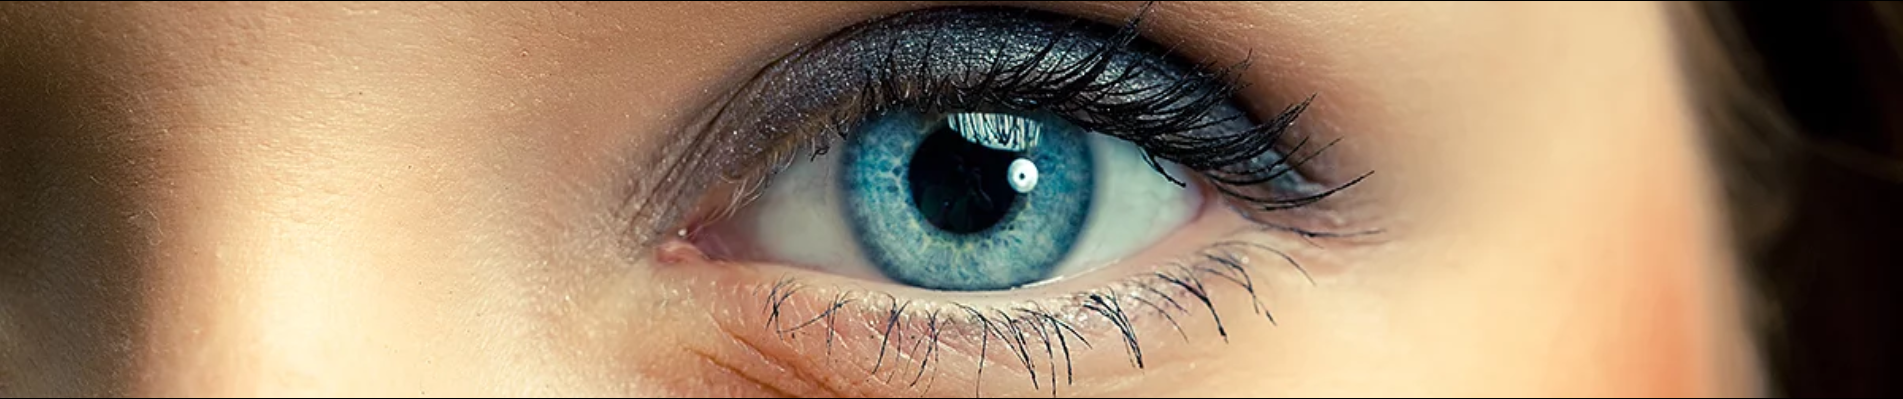
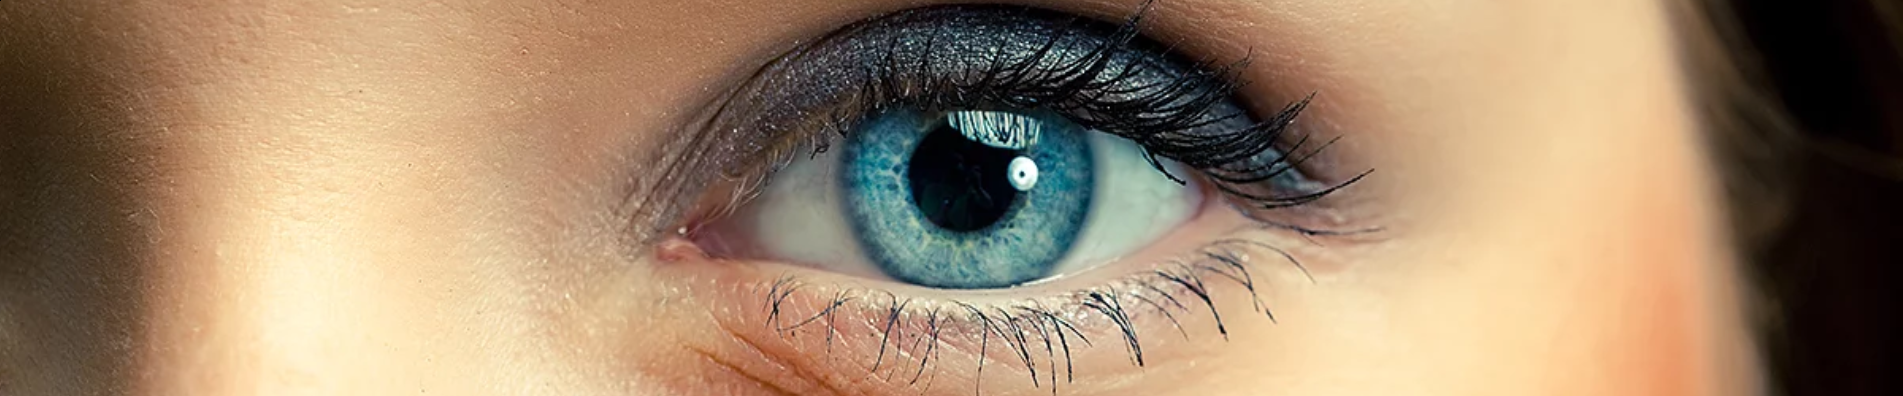
ajustes no design

diff --git a/estilo.css b/estilo.css
@@ -1,4 +1,5 @@
 body{
+    width: 100%;
     background-color: white;
     background-repeat: no-repeat;
     font-family: "Calibri Light";
@@ -6,50 +7,100 @@ body{
     margin: 0; padding: 0;
 }
 #menu{
-    color: white;
-    width: 100%;
-    height: 70px;
-    background-color: white;
+    color: #89cbc0;
+    width: 90%;
+    height: 50px;
+    background-color: #89cbc0;
     display: inline-block;
     padding-bottom: 30px;
     margin-bottom: 0px;
     padding-top: 30px;
-    padding-left: 800px;
+    padding-left: 200px;
     font-family: "Calibri";
     
+    
 }
-#menu a{
+/*#menu a{
+    float: right;
+}*/
+#menu form{
+    float: left;
+    height: 10px;
+    border: 1px solid black;
+} 
+#menu img{
+    float: left;
+    height: 10px;
+    border: 1px solid black;
+}
+
+#menu02{
+    color: white;
+    width: 100%;
+    height: 60px;
+    background-color: white;
+    display: inline-block;
+    padding-bottom: 30px;
+    margin-bottom: 0px;
+    padding-top: 15px;
+    padding-left: 190px;
+    font-family: "Calibri";
+    float: left;
+    
+}
+#menu02 a{
     background-color: white;
     color: #00688B;
     text-decoration: none;
     margin: 0px 0px;
-    padding: 30px 30px 25px 25px;
+    padding: 60px 60px 60px 30px;
     font-size: 16px;
     font-family: "Calibri";
     float: left;
 }
-#menu a:hover{
-    text-decoration: underline;
+#menu02 a:hover{
+    background-color: lightgray;
+    color: white;
     cursor: pointer;
+}
+#logo{
+    width: 342px; height: 130px;
+    float: left;
+    padding-right: 200px;
+}
+#olho{
+    width: 100%; height: 420px;
+}
+#facebook{
+    padding-left: 30px;
+    padding-top: 20px;
+    
+}
+#divface{
+    width: 300px;
+    float: right;
 }
 #usuario{
     padding-top: 28px;
     padding-right: 10px;
-    padding-left: 70px;
-    width: 20px; height: 20px;
+    padding-left: 10px;
+    width: 20px; height: 60px;
     float: left;
 }
-#logo{
-    width: 270px; height: 100px;
-    float: left;
+#facebook{
+    width: 30px; height: 30px;
+    padding-left: 5px;
+    padding-right: 5px;
+    padding-top: 0px;
+}
 
-}
 #formulario input[type="submit"]{
      padding: 10px 15px 10px 15px;
      border-radius: 8px;
      border: none;
-     background-color: #00688B;
-     color: white;
+     background-color: white;
+     color: #00688B;
+     cursor: pointer;
 }
 #formulario input[type="text"]{
     padding: 8px 8px 8px 8px;
@@ -75,7 +126,6 @@ body{
 #container2{
     margin: 15px;
 }
-
 #login{
     background-repeat: no-repeat;
     padding: 12px 45px;
@@ -85,7 +135,6 @@ body{
     font-size: 11px;
     width: 100px;
     transition: width 1s;
-    -webkit-transition: width 1s;                    
-    
+    -webkit-transition: width 1s;                      
 }
 

diff --git a/menu.php b/menu.php
@@ -5,52 +5,22 @@ if (session_status() != PHP_SESSION_ACTIVE) {
 ?>
 <header>
     <div id="menu">
-        <img id="logo" src="imagens/logo.png" alt="VL"   
-    <a href="index.php">Início</a>
-    <a href="horarios.php">Sobre</a>
-    
-    <?php
-    if (!isset($_SESSION['logado']) ||
-            !$_SESSION['logado'] ) {
-        ?>
-     <a href="frmCliente.php">Cadastre-se</a>
     |
-    <img id="usuario" src="imagens/usuario3.png" alt="botao">
-     
-        
-    <form id="formulario" action="entrar.php" method="POST" >
-            <input type="text" name="txtLogin" required
-                   placeholder="E-mail ou CPF: " />
+        <img id="usuario" src="imagens/usuario3.png" alt="botao">
 
-            <input type="password" name="txtSenha"
-                   placeholder="Senha: " required />
+        <form id="formulario" action="entrar.php" method="POST" >
+                <input type="text" name="txtLogin" required
+                       placeholder="E-mail ou CPF: " />
 
-            <input type="submit" value="Entrar" />
-        </form> 
-    
-    <?php
-            }else{
-                ?>
-    
-        <a href="consultas.php">Consultas</button</a>  
-    <?php
-    if(isset($_SESSION['tipo'])&& $_SESSION['tipo'] == "a"){
-        echo ' <a href="clientes.php">Usuários</a>';
-        echo ' <a href="cidades.php">Cidades</a>';  
-        echo ' <a href="procedimentos.php">Procedimentos</a>';  
-        echo ' <a href="horarioConsulta.php">Horários</a>'; 
-        
-    }
-                ?>
-        
-        <?php
-        echo 'Olá, ' . $_SESSION['nome'];
-        echo '<a href="sair.php">Sair</a>';
-        
-    } 
-        ?>
-   
-        
+                <input type="password" name="txtSenha"
+                       placeholder="Senha: " required />
+
+                <input type="submit" value="Entrar" />
+
+        </form>
+        <div id="divface">
+       <a href="https://www.facebook.com/ClinicaVisionLife"><img id="facebook" src="imagens/facebook.png" alt="fb"></a> 
+        </div>
     </div>
 </header>
 

diff --git a/menu02.php b/menu02.php
@@ -1,0 +1,44 @@
+<?php
+if (session_status() != PHP_SESSION_ACTIVE) {
+    session_start();
+}
+?>
+<header>
+    <div id="menu02">   
+    <img id="logo" src="imagens/logo.png" alt="logo">   
+    <?php
+    echo '   Olá, ' . $_SESSION['nome'];
+    ?>
+    <a href="index.php">Início</a>
+    <a href="horarios.php">Sobre</a>
+    
+    <?php
+    if (!isset($_SESSION['logado']) ||
+            !$_SESSION['logado'] ) {
+        ?>
+     <a href="frmCliente.php">Cadastre-se</a>
+     <?php
+            }else{
+                ?>
+    
+        <a href="consultas.php">Consultas</button</a>  
+    <?php
+    if(isset($_SESSION['tipo'])&& $_SESSION['tipo'] == "a"){
+        echo ' <a href="clientes.php">Usuários</a>';
+        echo ' <a href="cidades.php">Cidades</a>';  
+        echo ' <a href="procedimentos.php">Procedimentos</a>';  
+        echo ' <a href="horarioConsulta.php">Horários</a>'; 
+        
+    }
+                ?>
+        
+        <?php
+        
+        echo '<a href="sair.php">Sair</a>';
+        
+    } 
+        ?>
+    </div>
+    
+</header>        
+

diff --git a/index.php b/index.php
@@ -9,11 +9,12 @@
         
         <?php
             require_once 'menu.php';
+            require_once 'menu02.php';
         ?>
         
-        <br> <br> <br> <br> 
+        <br><br><br><br><br><br><br><br>
         
-        <h1 align="center">Vision Life Oftalmologia</h1>
+        <img id="olho" src="imagens/olho.PNG" alt="botao">
         
         <?php
             

diff --git a/clientes.php b/clientes.php
@@ -18,6 +18,7 @@ if(isset($_SESSION['tipo'])&& $_SESSION['tipo'] == "a"){
     <body>
         <?php
             require_once 'menu.php';
+            require_once 'menu02.php';
         ?>
         
         <h1 align="center">Clientes</h1>

diff --git a/procedimentos.php b/procedimentos.php
@@ -29,6 +29,7 @@ if( isset($_REQUEST['editar'])) {
     <body>
         <?php
             require_once 'menu.php';
+            require_once 'menu02.php';
         ?>
         
         <h1 align="center">Procedimentos</h1>

diff --git a/horarioConsulta.php b/horarioConsulta.php
@@ -27,6 +27,7 @@ if( isset($_REQUEST['editar'])) {
     <body>
         <?php
             require_once 'menu.php';
+            require_once 'menu02.php';
         ?>
         
         <h1 align="center">Horários</h1>

diff --git a/cidades.php b/cidades.php
@@ -27,6 +27,7 @@ if( isset($_REQUEST['editar'])) {
     <body>
         <?php
             require_once 'menu.php';
+            require_once 'menu02.php';
         ?>
         
         <h1 align="center">Cidades</h1>

diff --git a/frmConsulta.php b/frmConsulta.php
@@ -39,6 +39,7 @@ if (isset($_REQUEST['editar'])) {
     <body>
         <?php
         require_once 'menu.php';
+        require_once 'menu02.php';
         ?>
          <h1 align="center">Cadastrar Consulta</h1>
 

diff --git a/frmCliente.php b/frmCliente.php
@@ -43,6 +43,7 @@ if (isset($_REQUEST['editar'])) {
     <body>
         <?php
         require_once 'menu.php';
+        require_once 'menu02.php';
         ?>
 
         <h1 align="center">Cadastrar Cliente</h1>

diff --git a/horarios.php b/horarios.php
@@ -9,6 +9,7 @@
         
         <?php
             require_once 'menu.php';
+            require_once 'menu02.php';
         ?>
         
         <h1 align="center">Clinica Oftalmologica VisionLife </h1>

diff --git a/consultas.php b/consultas.php
@@ -15,6 +15,7 @@
     <body>
         <?php
             require_once 'menu.php';
+            require_once 'menu02.php';
         ?>
         
         <h1 align="center">Consultas</h1>
